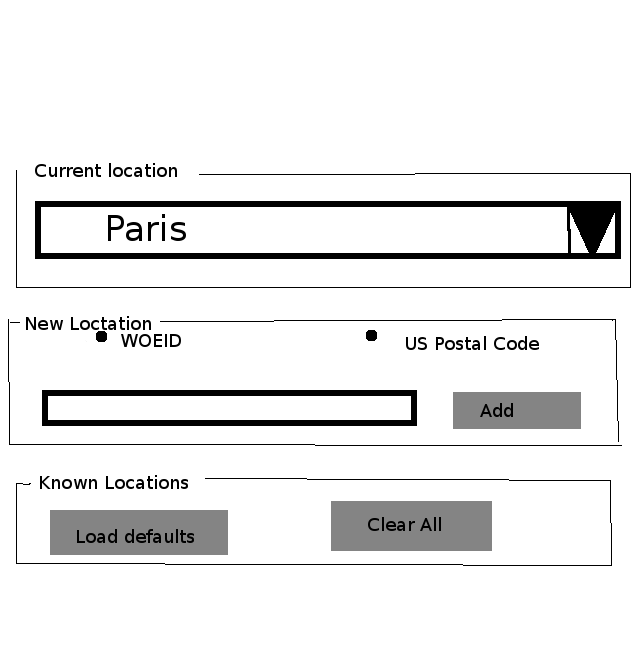
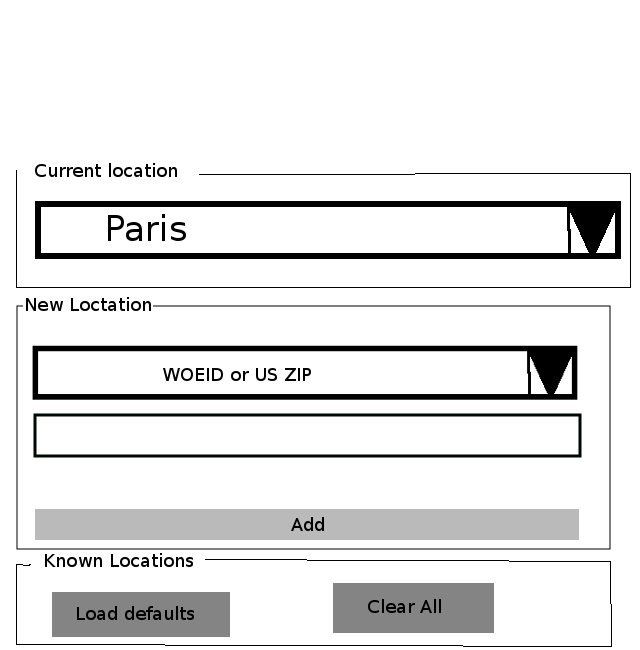
The exception handling and weather wireframe were updated.

diff --git a/pixel-weather/src/main/java/org/onebeartoe/pixel/plugins/weather/WeatherByWoeid.java b/pixel-weather/src/main/java/org/onebeartoe/pixel/plugins/weather/WeatherByWoeid.java
@@ -20,11 +20,14 @@ import javax.swing.ImageIcon;
 import javax.swing.JButton;
 import javax.swing.JComboBox;
 import javax.swing.JEditorPane;
+import javax.swing.JFormattedTextField;
+import javax.swing.JOptionPane;
 import javax.swing.JPanel;
 import javax.swing.JRadioButton;
 import javax.swing.JScrollPane;
 import javax.swing.JTextArea;
 import javax.swing.SwingUtilities;
+import javax.swing.text.NumberFormatter;
 import org.onebeartoe.pixel.plugins.swing.ScrollingTextPanel;
 
 /**
@@ -58,7 +61,8 @@ public class WeatherByWoeid extends ScrollingTextPanel
         JPanel radioPanel = new JPanel( new GridLayout(1,2, 5, 5) );
         radioPanel.add(woeidRadio);
         radioPanel.add(usZipRadio);                        
-        final JTextArea locationIdField = new JTextArea();
+        final JFormattedTextField locationIdField = new JFormattedTextField( new NumberFormatter() );
+//        final JTextArea locationIdField = new JTextArea();
 	JButton addLocationButton = new JButton("Add");
 	addLocationButton.addActionListener( new ActionListener() 
 	{
@@ -66,10 +70,15 @@ public class WeatherByWoeid extends ScrollingTextPanel
 	    {
                 String s = locationIdField.getText();
                 
-		int id = Integer.parseInt(s);
-                
-                
-		
+                try
+                {
+                    int id = Integer.parseInt(s);
+                }
+                catch(NumberFormatException nfe)
+                {
+                    String message = "Please provide an all numeric ID.";
+                    JOptionPane.showMessageDialog(WeatherByWoeid.this, message);
+                }
 	    }
 	});	
 	JPanel addLocationPanel = new JPanel( new BorderLayout() );
